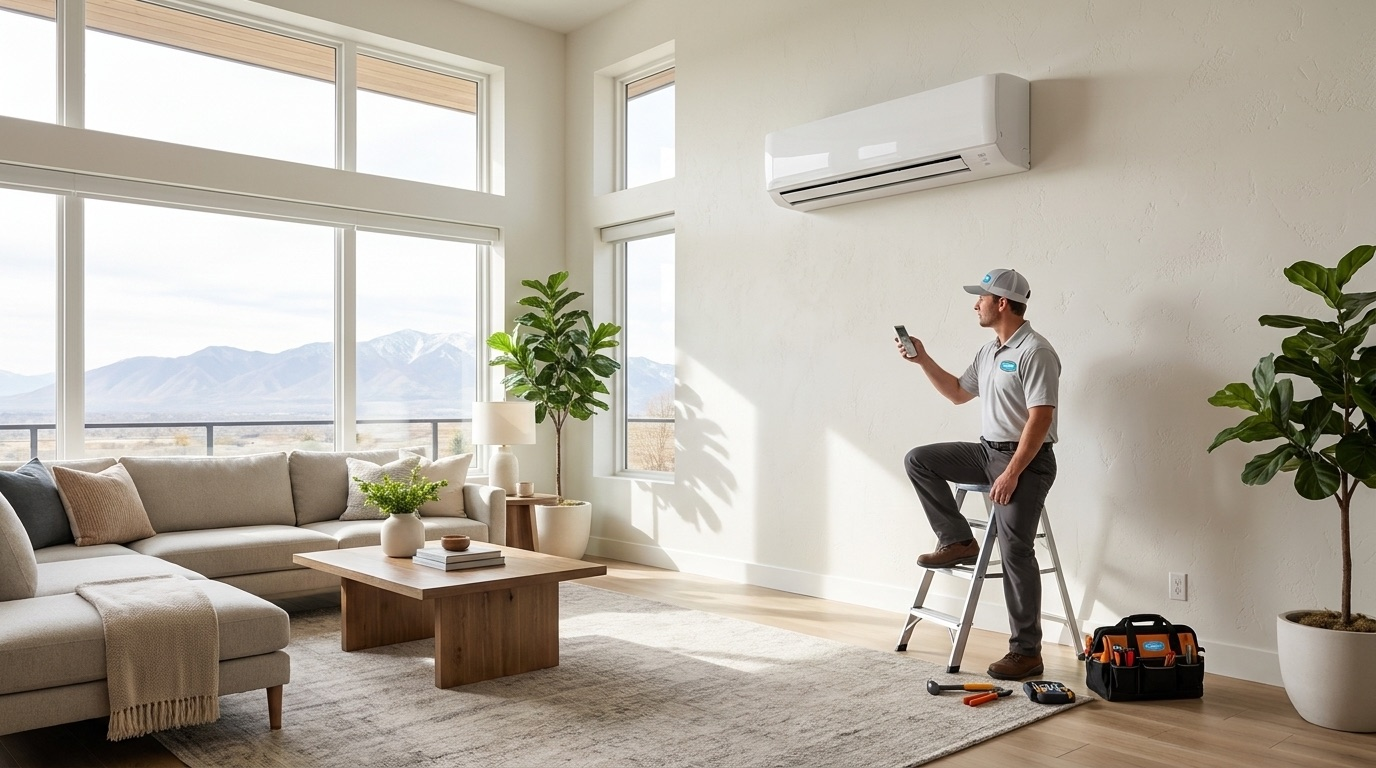
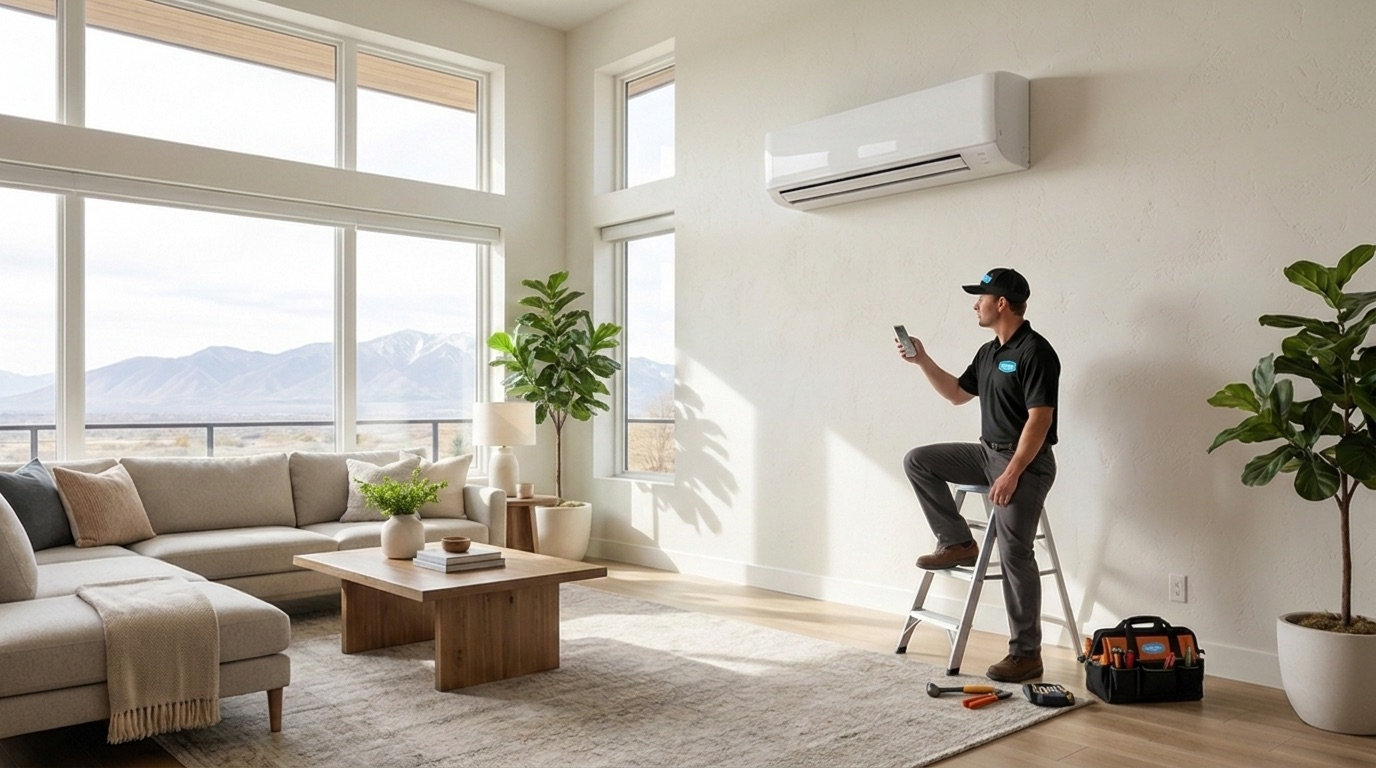
Correct all technician uniforms to black (brand standard)
All 26 gray-uniform images from rounds 8-9 recolored to the black Sunny uniform
via nano_banana edits (composition and logos preserved): 13 heroes, 12 service
cards, 1 split photo. The round-7 homepage set and why-team.jpg were already
black and untouched. Edit job IDs in PHOTO-PROMPTS.md Round 10.

diff --git a/assets/PHOTO-PROMPTS.md b/assets/PHOTO-PROMPTS.md
@@ -318,3 +318,29 @@ Retired from the repo this round (git history keeps them): the AI re-skin quaran
 (repair/repair2/installation/installation2/maintenance/maintenance2/tuneup/tuneup2/garage .png),
 van.png + van2.png (old phone number; van2-current.jpg with 801.887.9650 is the only van asset),
 and map.png (Ogden pin). team-*.jpg close-up set kept on disk but no longer referenced by any page.
+
+## Round 10 - Black uniform correction (2026-07-15)
+
+BRAND RULE (permanent): Sunny technician uniforms are BLACK - black polo, black cap/beanie,
+black winter jacket, blue hexagon Sunny logo patch. The round-7 homepage set and why-team.jpg
+were already correct; rounds 8-9 were generated in light gray by mistake and all 26 technician
+images were recolored via nano_banana_pro edits (source job + logo ref, aspect_ratio pinned,
+prompt: "Change the technician's light-gray polo shirt and light-gray cap to a solid BLACK work
+polo and BLACK cap... keep the Sunny Home Services logo patch clearly readable").
+
+Recolor edit job IDs (target <- edit):
+- heroes/cooling.jpg <- 63a225f3 | heroes/heating.jpg <- 81a44399 | heroes/mini-splits.jpg <- 5f22bd03
+- heroes/indoor-air-quality.jpg <- a8298c2d | services/heatpump-service.jpg <- fb211c9e (navy->black jacket)
+- services/heating-work.jpg <- 426e187d
+- card-ac-repair <- 457c14a7 | card-ac-maintenance <- 1b2d3b82 | card-ac-install <- 3f2666e7
+- card-ac-emergency <- c50c60f2 | card-heating-install <- 8fbca7e4 | card-heating-repair <- 33687f2b
+- card-heating-maintenance <- 6ccdb217 | card-heating-emergency <- 25c5a33d (tan->black jacket)
+- card-ms-install <- ee3efb7b | card-ms-repair <- 9f674d0b | card-ms-maintenance <- aa2a4720
+- card-iaq-duct-cleaning <- c69cd87f
+- heroes/ac-repair <- 87ad00ea | heroes/ac-installation <- a049dd91 | heroes/ac-maintenance <- 6b60b4a1
+- heroes/emergency-ac-repair <- f6a7a133 | heroes/furnace-repair <- 46943be7
+- heroes/furnace-installation <- ea7705aa | heroes/furnace-maintenance <- 28b4af6d
+- heroes/emergency-heating-repair <- ad1f5475
+
+26 edits x 2 credits = 52 credits. Recolor edits preserve composition and logos reliably;
+this is the cheapest fix for a wardrobe-color mistake (vs regenerating).
